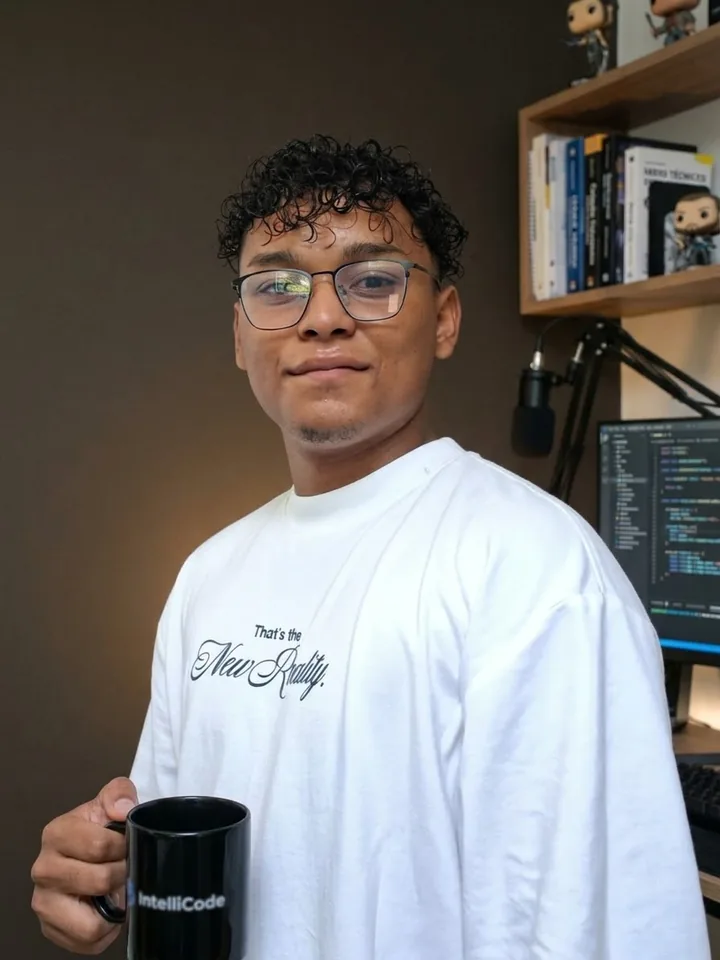
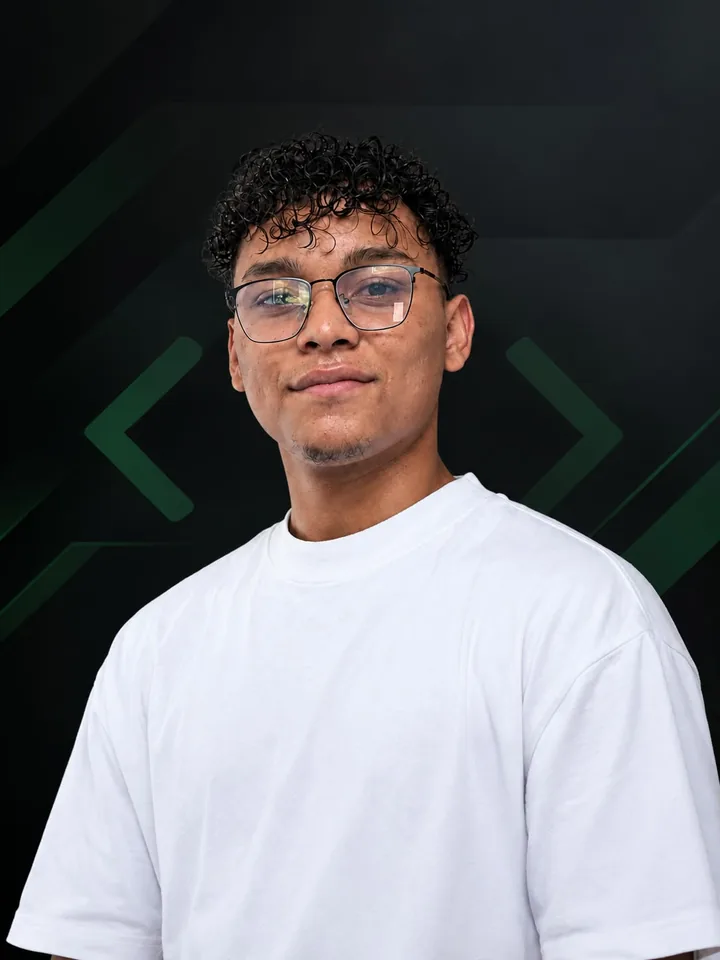
v2.0.1 - fix general

diff --git a/index.html b/index.html
@@ -12,7 +12,7 @@
     <link rel="icon" type="image/svg+xml" href="/favicon.svg" />
     <link rel="preconnect" href="https://fonts.googleapis.com" />
     <link rel="preconnect" href="https://fonts.gstatic.com" crossorigin />
-    <link href="https://fonts.googleapis.com/css2?family=Outfit:wght@300;400;500;600;700&family=Caveat:wght@500&display=swap" rel="stylesheet" />
+    <link href="https://fonts.googleapis.com/css2?family=Outfit:wght@300;400;500;600;700&display=swap" rel="stylesheet" />
   </head>
   <body>
     <div id="root"></div>

diff --git a/README.md b/README.md
@@ -1,63 +1,60 @@
-# IntelliCode Analytics & Software — Web Landing Platform
+# IntelliCode Analytics & Software — Landing
 
-## 📌 Descripción General
+Sitio web oficial de **IntelliCode Analytics & Software**. Presenta la oferta de software a la medida, el portafolio de proyectos, la línea educativa IntelliClass y los canales de contacto.
 
-Este repositorio alberga el código fuente del portal web oficial de **IntelliCode Analytics & Software**[cite: 1, 2, 3]. La plataforma actúa como la vitrina digital principal de la empresa, diseñada para presentar la oferta de valor en soluciones de software a la medida, captar clientes potenciales y conectar directamente con el ecosistema de aplicaciones de la firma[cite: 1, 2, 3].
+## Secciones
 
----
+| Orden | Sección | Descripción |
+| --- | --- | --- |
+| 1 | Header | Logo, navegación por anclas y botón de contacto. Va fijo arriba del hero, sin seguir el scroll |
+| 2 | Hero | Propuesta de valor, botones de cotización y de equipo, relieve isométrico de fondo y marquesina infinita con 12 tecnologías |
+| 3 | Services | Cuadrícula bento de 6 tarjetas con aparición al hacer scroll |
+| 4 | IntelliClass | Cursos y clases dirigidas, con enlace de inscripción |
+| 5 | Projects | Tres proyectos reales entregados a clientes |
+| 6 | Team | Equipo con foto, rol y habilidades (`id="quien-soy"`) |
+| 7 | Faq | Acordeón de preguntas frecuentes, una abierta a la vez |
+| 8 | Contact | Tarjetas de WhatsApp y correo |
+| 9 | Footer | Marca, navegación y datos de contacto |
 
-## 🎯 Objetivos de la Plataforma
+## Stack
 
-- **Presencia Comercial y Conversión:** Exponer la propuesta de valor del desarrollo de software empresarial, páginas web y soluciones tecnológicas avanzadas[cite: 2].
-- **Muestra de Portafolio:** Presentar casos de éxito, proyectos destacados y soluciones personalizadas desarrolladas para diversos sectores[cite: 2].
-- **Línea Educativa (IntelliClass):** Difundir la iniciativa de formación práctica e interactiva enfocada en tecnología[cite: 2].
-- **Ecosistema Unificado:** Servir como puente de entrada hacia las aplicaciones web y plataformas SaaS operadas por IntelliCode[cite: 1, 3].
+- React 18
+- Vite 5
+- CSS nativo con variables globales (`src/styles/tokens.css`)
 
----
+## Comandos
 
-## 🏛 Arquitectura del Sistema y Módulos
+```bash
+npm install
+npm run dev
+npm run build
+npm run preview
+```
 
-La aplicación está construida sobre una arquitectura modular cliente-servidor desacoplada[cite: 1, 3], estructurada en las siguientes secciones estratégicas:
+## Estructura
 
-### 1. Cabecera y Navegación Principal
-- Menú responsivo con navegación fluida por secciones[cite: 2].
-- **Integración de Aplicativo:** Botón de acceso dinámico hacia la plataforma web principal (`appUrl`), activado automáticamente según la disponibilidad del entorno[cite: 1, 3].
+```
+src/
+  assets/       imágenes WebP y textura
+  components/   un componente y su CSS por sección
+  data/         contenido editable: services, classes, projects, team, faq, tech
+  hooks/        useReveal para la aparición al hacer scroll
+  styles/       tokens.css y base.css
+  config.js     WhatsApp, correo y enlace a la app
+```
 
-### 2. Módulo Hero (Propuesta de Valor)
-- Presentación directa del impacto comercial del software a la medida[cite: 2].
-- Llamados a la acción (CTA) directos para cotizaciones vía WhatsApp y correo electrónico corporativo[cite: 1, 2, 3].
+## Configuración
 
-### 3. Catálogo de Servicios ("Lo que hacemos")
-Exposición en diseño tipo Bento Grid con cobertura de los pilares clave del negocio[cite: 2]:
-- Desarrollo de Páginas Web y Comercio Electrónico[cite: 2].
-- Software Empresarial y Sistemas para Negocios[cite: 2].
-- Análisis y Soluciones con Inteligencia Artificial[cite: 2].
-- Automatizaciones de Procesos y Servicios de Soporte/Mantenimiento[cite: 2].
+Los datos de contacto viven en `src/config.js`:
 
-### 4. IntelliClass
-- Módulo dedicado a la presentación del programa educativo práctico "aprende haciendo", diseñado para la formación tecnológica de clientes y comunidad[cite: 2].
+| Clave | Uso |
+| --- | --- |
+| `whatsapp` | Enlace de WhatsApp para los botones de contacto |
+| `email` | Correo corporativo |
+| `appUrl` | Enlace a la aplicación web; mientras esté vacío, el botón "Ingresar a la app" no se muestra |
 
-### 5. Portafolio de Proyectos
-- Exhibición de aplicaciones y sistemas desarrollados, con fichas de descripción, tecnologías aplicadas y enlaces de prueba o consulta[cite: 2].
+El contenido de cada sección se edita en `src/data/` sin tocar los componentes.
 
-### 6. Presentación del Fundador / Identidad de Marca
-- Reproductor multimedia nativo optimizado con video institucional y póster de alta definición para la introducción ejecutiva del fundador[cite: 1, 2].
+## Despliegue
 
-### 7. Centro de Atención y Preguntas Frecuentes (FAQ)
-- Módulo interactivo desplegable que resuelve inquietudes operativas sobre presupuestos, metodologías de trabajo y tiempos de entrega[cite: 2].
-
----
-
-## ⚙ Especificaciones Técnicas
-
-- **Frontend Core:** React.js[cite: 1, 3]
-- **Tooling & Bundler:** Vite[cite: 1, 3]
-- **Estilos & UI:** CSS3 nativo desacoplado mediante variables globales de diseño (soporte para temas oscuros/claros, microinteracciones y respuesta adaptativa)[cite: 1, 2, 3].
-- **Gestión de Configuración:** Parametrización centralizada (`src/config.js`) para credenciales de contacto, enlaces sociales y endpoints de aplicaciones vinculadas[cite: 1, 3].
-- **Gestión de Datos:** Datasets estructurados e independientes (`src/data/`) para administración ágil de contenidos sin alterar la lógica de presentación[cite: 1, 3].
-
----
-
-<p align="center">
-  <b>IntelliCode Analytics & Software</b> • Repositorio Privado Corporativo
-</p>
+`render.yaml` define un sitio estático en Render: `npm install && npm run build` y publicación de la carpeta `dist`.
